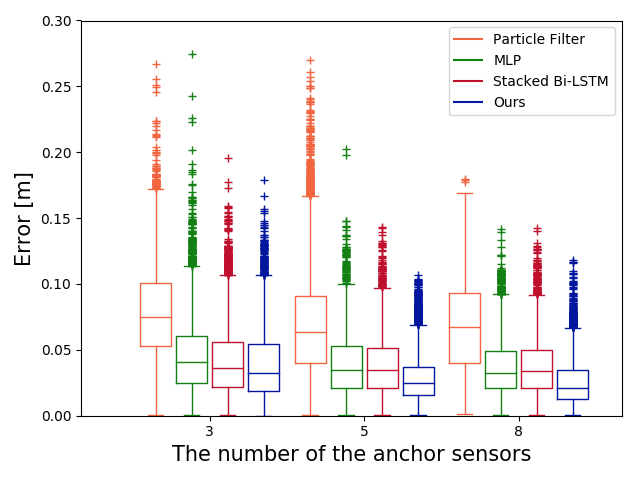
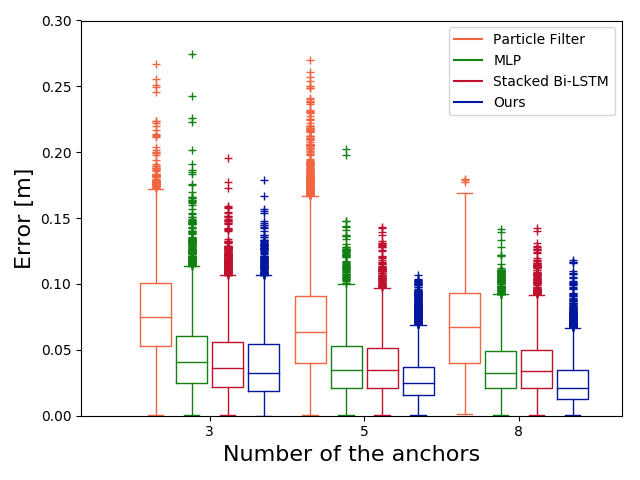
Complete all drawer

Changed region(s): [[0.25, 0.9062, 0.8438, 0.9688], [0.0, 0.3438, 0.0625, 0.4375], [0.0, 0.4688, 0.0625, 0.5625]]

diff --git a/lstm_codes/histogram_drawer.py b/lstm_codes/histogram_drawer.py
@@ -1,0 +1,92 @@
+import matplotlib.pyplot as plt
+from sklearn import mixture
+import pandas as pd
+import collections
+import numpy as np
+import os
+
+from scipy.stats import norm
+import matplotlib.mlab as mlab
+
+
+def extract_distances_from_pozyx_csv(pozyx_csv):
+    '''
+    In pozyx_csv, sync is not distorted,
+    so, if you check by yourself,
+    then print below commented_line
+    '''
+    dist_0 = '-'
+    dist_1 = 'RSS'
+    dist_2 = 'dist.1'
+    dist_3 = '-.2'
+
+    # print(pozyx_csv['-'].iloc[i])
+    # print(pozyx_csv['RSS'].iloc[i])
+    # print(pozyx_csv['dist.1'].iloc[i])
+    # print(pozyx_csv['-.2'].iloc[i])
+    # print(pozyx_csv['RSS.2'].iloc[i])
+    # print(pozyx_csv['dist.3'].iloc[i])
+    # print(pozyx_csv['-.4'].iloc[i])
+    # print(pozyx_csv['RSS.4'].iloc[i])
+
+    pandas_index_list = [dist_0, dist_1, dist_2, dist_3]
+    distance_0 = np.array(pozyx_csv[dist_0])
+    distance_1 = np.array(pozyx_csv[dist_1])
+    distance_2 = np.array(pozyx_csv[dist_2])
+    distance_3 = np.array(pozyx_csv[dist_3])
+
+
+    return distance_0, distance_1, distance_2, distance_3
+
+if __name__  == "__main__":
+    '''Setting directories of object files'''
+    # full_path = "/home/shapelim/Desktop/uio_net_data/190108/"
+    # dir = full_path + "test/2019-01-08-08-31-38/"
+    abs_path = "/home/shapelim/Downloads/0220_calibration/test2_1/_slash_pozyx_slash_range.csv"
+    pozyx_csv = pd.read_csv(abs_path, delimiter=',')
+    d0, d1, d2, d3 = extract_distances_from_pozyx_csv(pozyx_csv)
+
+    d_list = [d0, d1, d2, d3]
+
+    for sensor_idx, d in enumerate(d_list):
+        # Set target d
+        n_bins = 18
+        x = d
+
+        for i in range(len(x)):
+            if x[i] == 0:
+                x[i] = (x[i-1] + x[i+1])/2
+
+        # This process is essential to get n for normalizing pdf...
+        # I don't know what it is
+        n, bins, patches = plt.hist(x, bins=n_bins, color=(0.0, 0.0, 0.5), density=True)
+
+        plt.cla()
+        fig = plt.figure()
+
+        weights = np.ones_like(x)/float(len(x))
+        plt.hist(x, bins=n_bins, color=(0.0, 0.0, 0.5), weights=weights)
+
+        ''' For gaussian fitting'''
+        xt = plt.xticks()[0]
+        xmin, xmax = min(xt), max(xt)
+        lnspc = np.linspace(xmin, xmax, len(x))
+
+        # lets try the normal distribution first
+        m, s = norm.fit(x)  # get mean and standard deviation
+        pdf_g = norm.pdf(lnspc, m, s)  # now get theoretical values in our interval
+        pdf_g = pdf_g/sum(n)
+        plt.plot(lnspc, pdf_g, label="Norm", color='r', linestyle='--')  # plot it
+        print(m, s)
+        plt.title(r'$ \mu=100,\ \sigma=15$')
+        plt.title(r'$ \mu={},\ \sigma={}$'.format(round(m, 3), round(s, 3)))
+        # plt.title("Mean: " + str(round(m, 2)) + "Std: " + str(round(s,2)))
+        plt.xlabel("Measured distance [m]")
+        plt.ylabel("Probability density")
+
+        # (mu, sigma) = norm.fit(x)
+        # gaussian_line = mlab.normpdf(n_bins, mu, sigma)
+        # plt.plot(n_bins, gaussian_line, 'r', linewidth=2)
+
+        fig = plt.gcf()
+        fig.savefig("histo2{}.png".format(sensor_idx))

diff --git a/lstm_codes/trajectory_drawer2.py b/lstm_codes/trajectory_drawer2.py
@@ -259,16 +259,16 @@ if __name__ == "__main__":
     stacked_bi = abs_dir + "stacked_bi/stacked_bi_" + mode +".csv"
     RONet = abs_dir + "RONet/RONet_" + mode + ".csv"
     # viz.draw_2D_trajectory(mode, PF, fc, stacked_bi, RONet)
-    plot_index = 1
+    plot_index = 2
     # viz.set_2D_plot_name("/home/shapelim/RONet/trajectory/pf/PF_" + mode+".png")
     # viz.draw_2D_full_trajectory(mode, PF)
 
-    viz.set_2D_plot_name("/home/shapelim/RONet/trajectory/fc/fc_" + mode+".png")
-    viz.draw_2D_full_trajectory(mode, fc)
-    #
-    # viz.set_2D_plot_name("/home/shapelim/RONet/trajectory/stacked_bi/stacked_bi_" + mode+".png")
-    # viz.draw_2D_full_trajectory(mode, stacked_bi)
-    #
-    # viz.set_2D_plot_name("/home/shapelim/RONet/trajectory/ronet/RONet_" + mode+".png")
-    # viz.draw_2D_full_trajectory(mode, RONet)
+    # viz.set_2D_plot_name("/home/shapelim/RONet/trajectory/fc/fc_" + mode+".png")
+    # viz.draw_2D_full_trajectory(mode, fc)
+
+    viz.set_2D_plot_name("/home/shapelim/RONet/trajectory/stacked_bi/stacked_bi_" + mode+".png")
+    viz.draw_2D_full_trajectory(mode, stacked_bi)
+
+    viz.set_2D_plot_name("/home/shapelim/RONet/trajectory/ronet/RONet_" + mode+".png")
+    viz.draw_2D_full_trajectory(mode, RONet)
 

diff --git a/lstm_codes/box_plot_drawer.py b/lstm_codes/box_plot_drawer.py
@@ -98,8 +98,8 @@ class BoxPlotModule:
             self.plt.plot([], c=self.color_set[idx], label=ALGORITHM_NAME[idx])
 
         self.plt.legend()
-        self.plt.xlabel("The number of the anchor sensors", fontsize=15)
-        self.plt.ylabel("Error [m]", fontsize=15)
+        self.plt.xlabel("Number of the anchors", fontsize=16)
+        self.plt.ylabel("Error [m]", fontsize=16)
         self.plt.xticks(range(offset, scale*len(ticks), scale), self.ticks)
         self.plt.xlim(-scale/2, scale*len(self.ticks))
         self.plt.ylim(0, 0.3)
